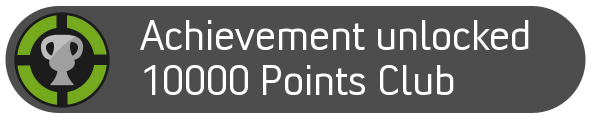
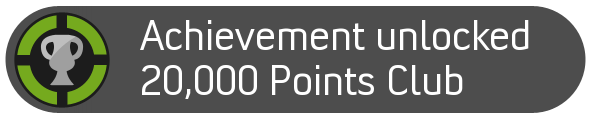
fixed reset, completed achievements, added click animation, added score algo, added lives

Changed region(s): [[0.3046, 0.525, 0.7919, 0.825], [0.2132, 0.525, 0.2741, 0.8], [0.5178, 0.525, 0.5482, 0.575]]

diff --git a/js/shades.js b/js/shades.js
@@ -17,7 +17,7 @@ $(document).ready(function() {
 	var hasShape = false;
 	var score = 0;
 	var gameLevel = 1;
-	var numColors = 3;
+	var numColors = 2;
 	var numShapes = 0;
 	var fadeTime = 10000;
 	var faded = false;
@@ -80,6 +80,8 @@ $(document).ready(function() {
 			}
 		}else {
 			//Hard Levels 15+
+			randomChoice(2);
+			makeShapes(2)
 			if(fadeTime > 2000) {
 				fadeTime -= 500;
 			}
@@ -89,11 +91,20 @@ $(document).ready(function() {
 	}
 	//Use the class tag so every Play and Playagain button can be referenced the same
 	$(".play").on('click touchstart', function(){
-		if(this.id == "playButton" || this.id == "playAgain") {
-			gameLevel = 1;
-			score = 0;
+		if($(this).attr('id') == "playAgain") {
+			reset();
+			window.location = "#main";
+			for(var i=0; i<board.length; i++) {
+			//Sets all cells to be able for clicking again.
+			board[i][1] =0;
+			$("#d"+i).removeClass().addClass("gametd");
+			$("#d"+i).prop("style").removeProperty("border-width");
+			}
+		
+			$("#d25").removeClass();
+			return;
+		
 		}
-		reset();
 		startGame();
 	});
 
@@ -152,8 +163,18 @@ $(document).ready(function() {
 
 
 	function reset() {
-		correct  = 0;
+		correct = 0;
 		correctClicked = 0;
+		clicked = false;
+		hasShape = false;
+		score = 0;
+		gameLevel = 1;
+		numColors = 2;
+		numShapes = 0;
+		fadeTime = 10000;
+		faded = false;
+		time = 0;
+		lives = 3;
 		$("svg").remove();
 		
 	}
@@ -182,7 +203,7 @@ $(document).ready(function() {
 					var choiceSVG = d3.select("svg");
 					var colorSVG = $(this).css("fill");
 					if (color === choiceColor && (!hasShape && (this.className == "gametd svg" || this.className == "gametd") || $("#d"+i).hasClass($("#d25").attr("class")))) {
-						//$(this).css("border-width", "medium");
+						$(this).css("border-width", "medium");
 						d3.select(this).style("opacity", 0).transition().duration(0).style("opacity", 1);
 						var timeDifference = (fadeTime - time)/1000;
 						score = score + ((gameLevel * 10)  * timeDifference) + 100;
@@ -252,7 +273,7 @@ $(document).ready(function() {
 				.attr("stroke", "turquoise")
 				.attr("stroke-width" , 3)
 				.attr("fill", color[0]);
-				shapeList[i] = shape;
+				shapeList[i] = "circle";
 				return "circle";
 				break;
 				case 1: 
@@ -341,7 +362,7 @@ $(document).ready(function() {
 	function nextLevel() {
 		faded = false;
 		$("#levelClear").html("LEVEL " + gameLevel + " CLEARED");
-		if (fadeTime > 5000)
+		if (fadeTime > 4000)
 			fadeTime -= 500;
 		gameLevel++;
 		
@@ -351,7 +372,7 @@ $(document).ready(function() {
 			//Sets all cells to be able for clicking again.
 			board[i][1] =0;
 			$("#d"+i).removeClass().addClass("gametd");
-			//$("#d"+i).prop("style").removeProperty("border-width");
+			$("#d"+i).prop("style").removeProperty("border-width");
 		}
 		
 		$("#d25").removeClass();
@@ -504,7 +525,7 @@ $(document).ready(function() {
 			});
 		}
 
-		if (score >= 10000 && lives == 3 && !achiev3 ) {
+		if (score >= 20000 && lives == 3 && !achiev3 ) {
 			achiev3 = true;
 			achv.play();
 			$("#ac").prepend('<img id="ach3" src="images/a3.png" width="80%"/>').hide();

diff --git a/index.html b/index.html
@@ -149,7 +149,7 @@
 		<p class='score'><strong>0</strong></p>
 		<h3>Best Score:</h3>
 		<p><strong>0</strong></p>
-		<a  data-role="button" data-inline="false" class="play">Play Again</a>
+		<a  data-role="button" data-inline="false" class="play" id="playAgain">Play Again</a>
 		<a data-role="button" data-inline="false"  class="submit">Submit Score</a>
         <a data-role="button" data-inline="false" class="menu">Quit Game</a>
 	</div>
@@ -171,7 +171,7 @@
         		<td><img src="images/Trophy_bnw.png" class="trophy" alt="reallyIMG" id="reallyIMG" width="100px" height="100px"></td>
         	</tr>
         	<tr>
-        		<td class="def"><h2>10,000 Points Club</h2><p>reach a score of 10,000 with 3 lives remaining</p></td>
+        		<td class="def"><h2>20,000 Points Club</h2><p>reach a score of 20,000 with 3 lives remaining</p></td>
         		<td><img src="images/Trophy_bnw.png" class="trophy" alt="levelupIMG" id="levelupIMG" width="100px" height="100px"></td>
         	</tr>
 		</table>
